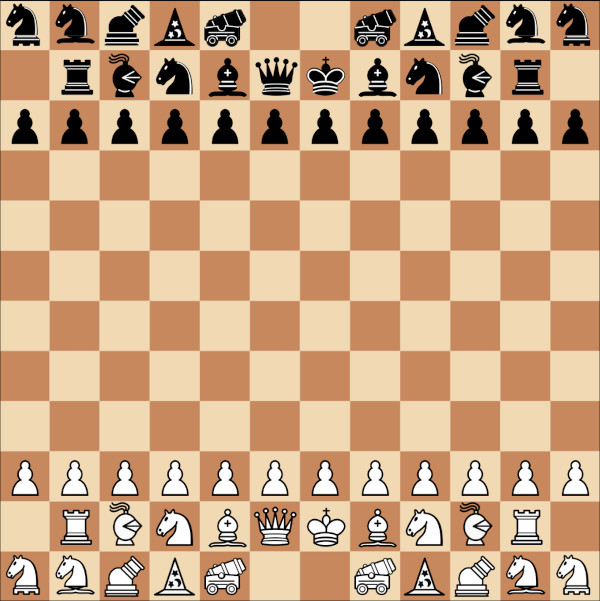
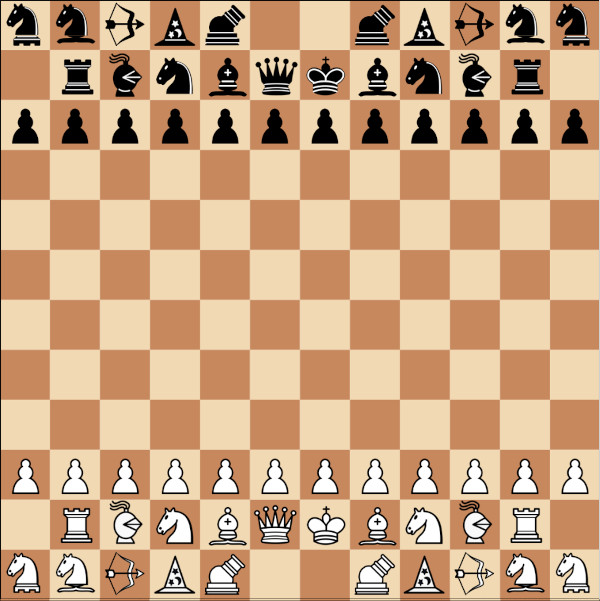
Gross chess : set piece values

diff --git a/src/games/chessbase/res/rules/duodecimal/gross-rules.html b/src/games/chessbase/res/rules/duodecimal/gross-rules.html
@@ -28,7 +28,7 @@
 
 
 <p>The board has 12 x 12 squares. </p>
-<img  src='{GAME}/res/visuals/hectochess-600x600-2d.jpg'>
+<img  src='{GAME}/res/visuals/gross-600x600-2d.jpg'>
 
 
 
@@ -72,19 +72,21 @@
 </p>
 <h2>Cannon</h2>
 <p>
-<img style="max-width:100%;" src="{GAME}/res/rules/fairy/cannon.png"/>
-</p>
-<p class='piece-details'>The Cannon: moves like a Rook, but can (and must) jump over one piece (friend or foe) in its path to capture.</p>
-<div style='clear:both'></div>
-<p>
-<h2>Vao</h2>
-<p>
 <img style="max-width:100%;" src="{GAME}/res/rules/fairy/cannon2.png"/>
 </p>
 <p class='piece-details'>The Diagonal Cannon (aka Vao): moves like a Bishop, but can (and must) jump over one piece (friend or foe) in its path to capture.</p>
 <div style='clear:both'></div>
 <p>
-<img class='piece-graph' src='{GAME}/res/rules/graphs/star.png'>
+<img class='piece-graph' src='{GAME}/res/rules/graphs/cannon.png'>
+</p>
+<h2>Vao</h2>
+<p>
+<img style="max-width:100%;" src="{GAME}/res/rules/fairy/bow.png"/>
+</p>
+<p class='piece-details'>The Diagonal Cannon (aka Vao): moves like a Bishop, but can (and must) jump over one piece (friend or foe) in its path to capture.</p>
+<div style='clear:both'></div>
+<p>
+<img class='piece-graph' src='{GAME}/res/rules/graphs/bow.png'>
 </p>
 <h2>King</h2>
 <p>

diff --git a/src/games/chessbase/duodecimal/gross-model.js b/src/games/chessbase/duodecimal/gross-model.js
@@ -15,9 +15,9 @@
 	
 	Model.Game.cbDefine=function(){
[1 lines of base64/hex data omitted]
-        //p.setValues({P:0.9, N:2.9, B:3.7, R:5, Q:9.6, M:8.5, A:7, W:4.2, O:4.7});
-
-       
+        p.setValues({P:0.95, N:3, B:3.8, R:5, Q:10, M:8.9, A:7.5, W:4.5, O:4.8, X:3.6, V:2.3});
+        p.setProperty("vao","aspect","fr-bow");
+        p.setProperty("cannon","aspect","fr-cannon2");      
         
 		return {
 			

diff --git a/src/games/chessbase/capa10x8/capablanca-model.js b/src/games/chessbase/capa10x8/capablanca-model.js
@@ -67,8 +67,8 @@
 			participants: p.promoChoice, // adapt auto-generated promotion choice to selected variant (Janus has no Marshall!)
 			persistent: true, // stick with selection for all subsequent games
 		},0];
-
-	        return p;
+        p.setValues({P:1, N:2.9, B:3.1, R:5, Q:9, M:7.8, A:6});
+	    return p;
 	}
 	
 })();

diff --git a/src/games/chessbase/index.js b/src/games/chessbase/index.js
@@ -6109,7 +6109,7 @@ exports.games = (function () {
  			"config": {
  				"status": true,
  				"model": {
- 					"title-en": "Gross",
+ 					"title-en": "Gross Chess",
 
  					"summary": "Omega/Gothic/Cambaluc Chess on 12x12",
  					"rules": {
